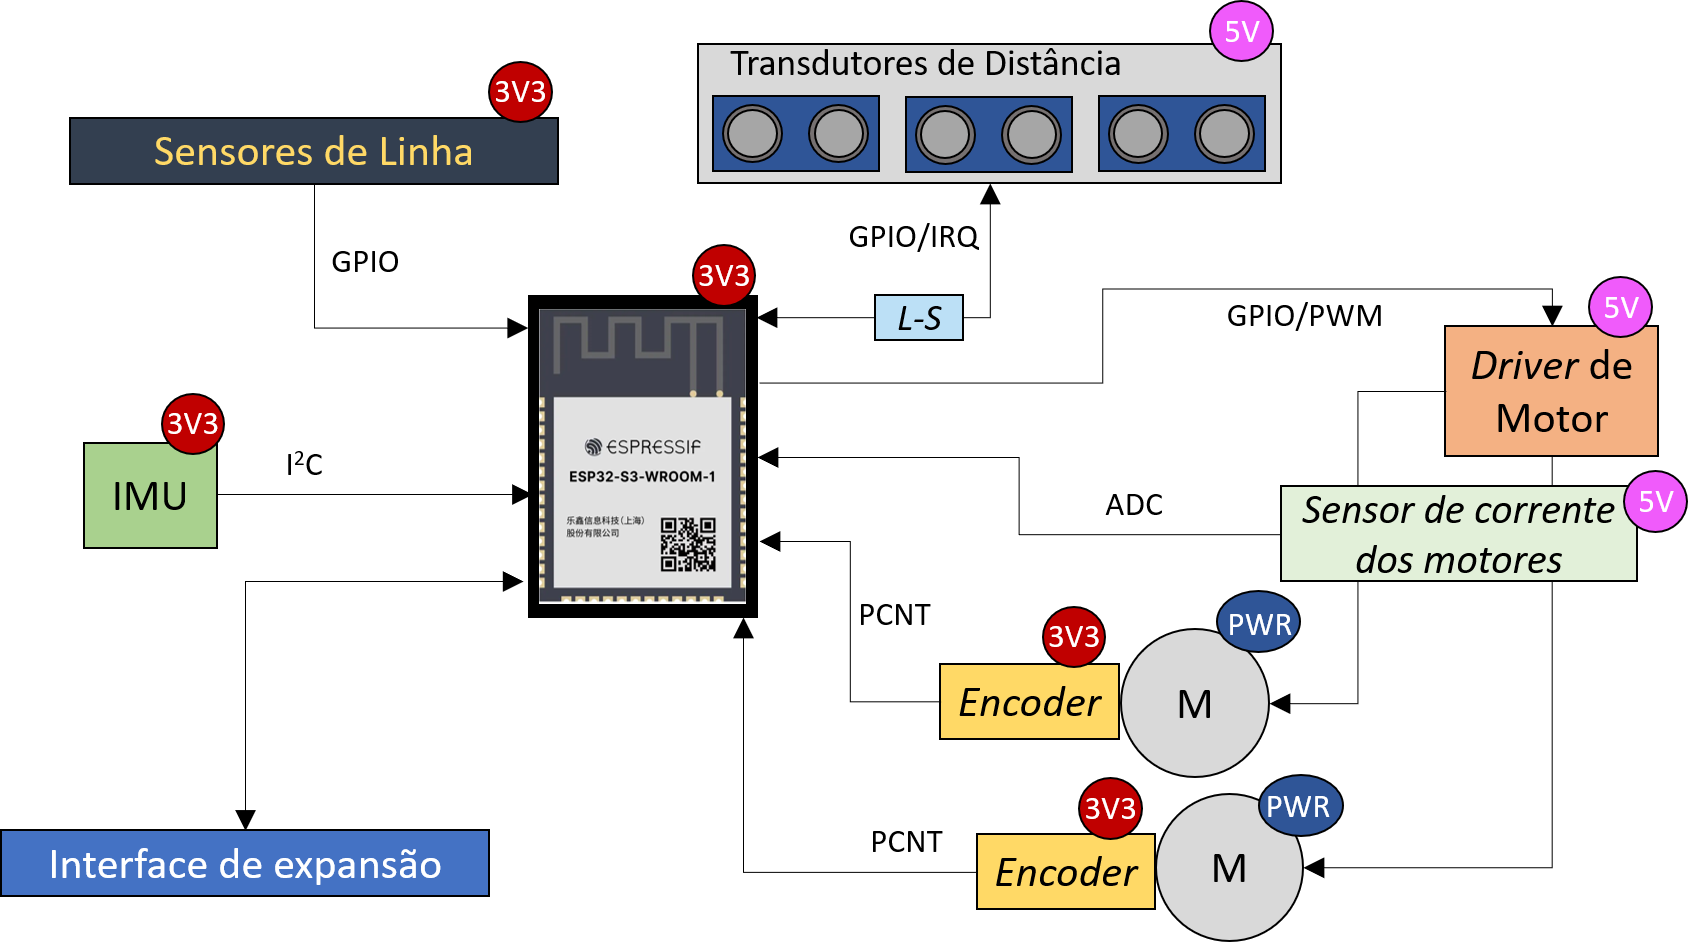
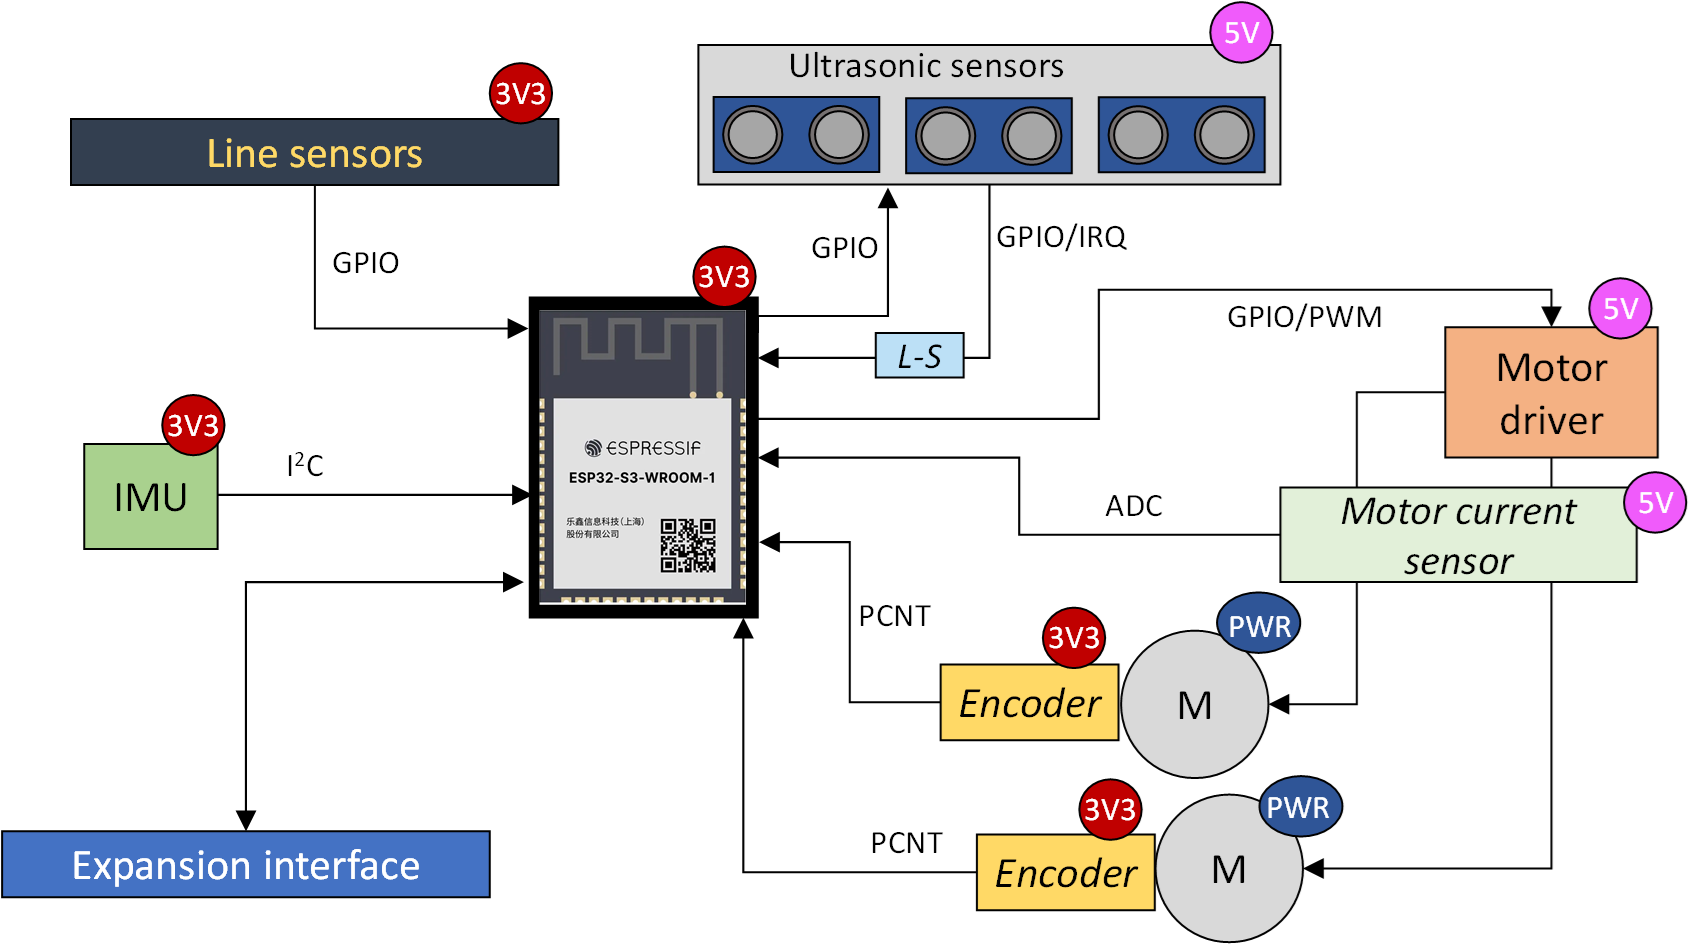
Adjust some images back and IR GPIO

diff --git a/firmware/go_and_avoid/main/test_tasks/ir_line_task.c b/firmware/go_and_avoid/main/test_tasks/ir_line_task.c
@@ -9,11 +9,11 @@
 
 static const char *TAG = "IR_Line";
 
-#define INFRA_RED_VERY_LEFT_GPIO  GPIO_NUM_25
-#define INFRA_RED_LEFT_GPIO  GPIO_NUM_33
-#define INFRA_RED_MIDDLE_GPIO  GPIO_NUM_32
-#define INFRA_RED_RIGHT_GPIO  35
-#define INFRA_RED_VERY_RIGHT_GPIO 34
+#define INFRA_RED_VERY_LEFT_GPIO  GPIO_NUM_15
+#define INFRA_RED_LEFT_GPIO  GPIO_NUM_16
+#define INFRA_RED_MIDDLE_GPIO  GPIO_NUM_17
+#define INFRA_RED_RIGHT_GPIO  GPIO_NUM_18
+#define INFRA_RED_VERY_RIGHT_GPIO GPIO_NUM_8
 
 #define IR_LINE_VERY_VERY_LEFT (1ULL << INFRA_RED_VERY_LEFT_GPIO)
 #define IR_LINE_VERY_LEFT ((1ULL << INFRA_RED_VERY_LEFT_GPIO) | (1ULL << INFRA_RED_LEFT_GPIO))
